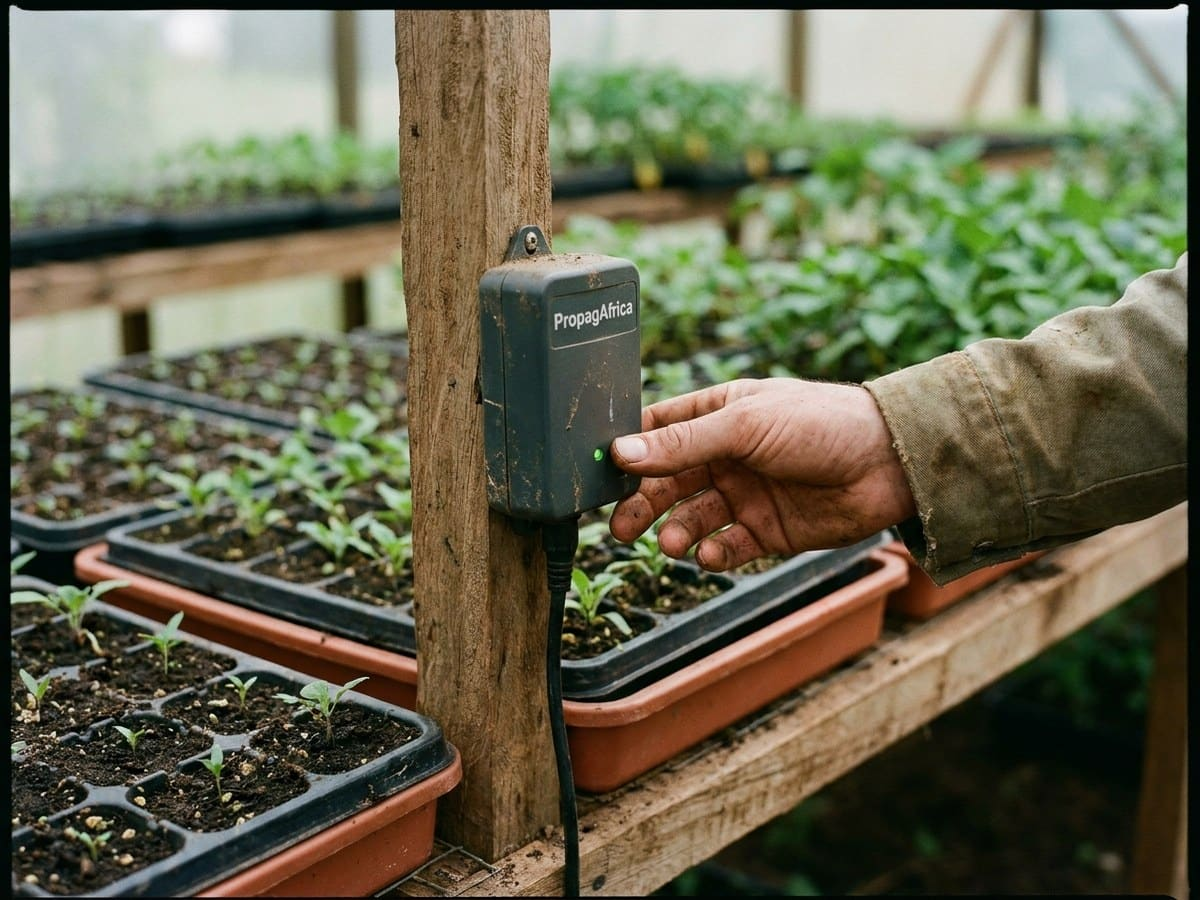
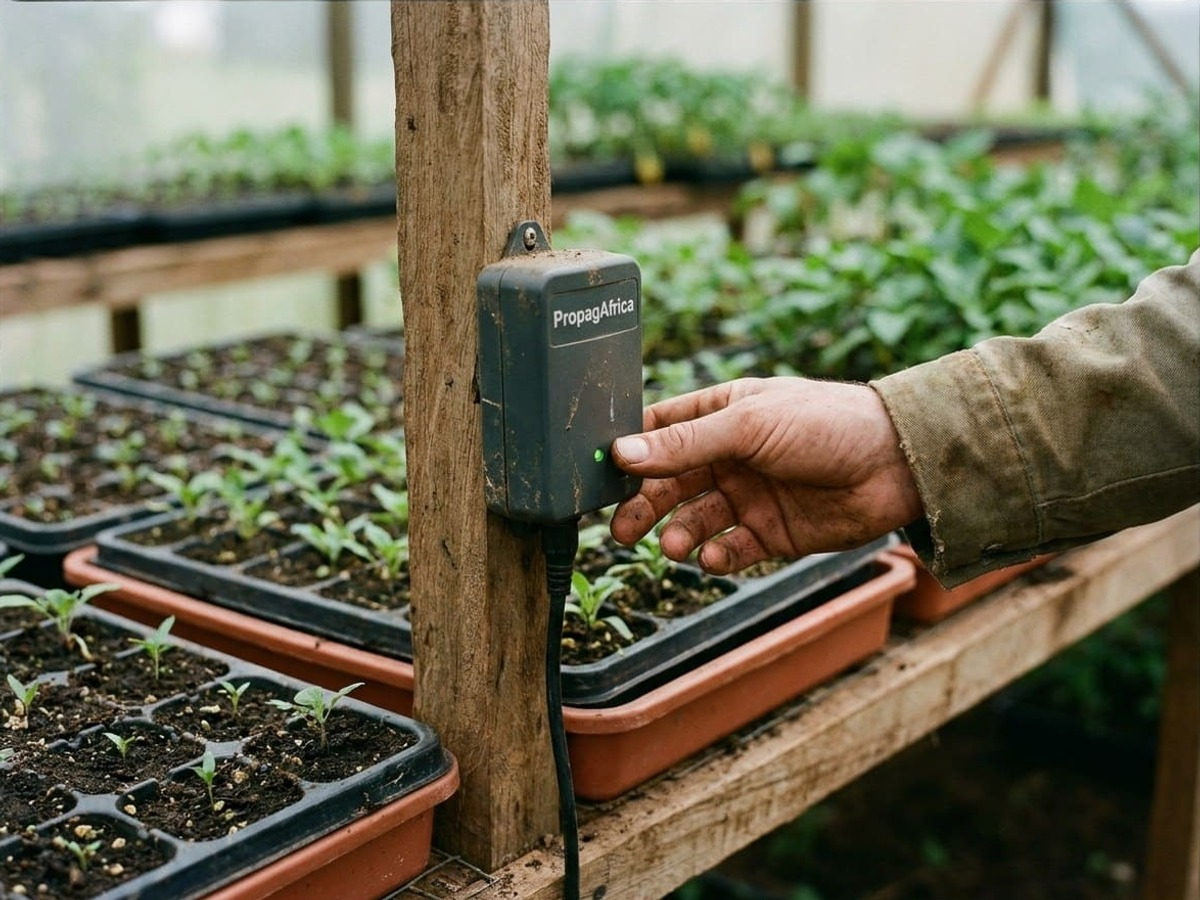
Compact hero height, crop process-04 vignette, centre tools card text
The hero's 16:9 aspect at full viewport width was near-100vh on a laptop
screen; it's now capped by viewport height (clamp 480-640px) so more of
the page shows on first paint. process-04.jpg had a ~10px black border
baked into the file, visible as bars on the journey card; cropped it out
with sharp and re-saved at the same path/dimensions. Tools hub card text
is now centred to match the button below it.

Claude-Session: https://claude.ai/code/session_01XaaRvDfhfuWYLksUVMKjCg

diff --git a/.factory/DECISIONS.md b/.factory/DECISIONS.md
@@ -26,107 +26,11 @@ archived in `.factory/history/2026-09-16-session9-homepage-iterations.md` — se
 of those entries describe an intermediate state superseded by a later entry below
 (the journey card width, the footer sitemap control) rather than the shipped one.
 
-## Mobile nav, hero copy and footer pass (2026-09-16)
-
-Header below 720px: a hamburger button + collapsible panel (vanilla script,
-no framework), wordmark centred via a 3-column `40px 1fr 40px` grid so the
-logo sits on the true centre rather than the space left of the toggle.
-
-Homepage hero sub-head is blueprint.md-locked copy — kept verbatim for
-desktop as `.hero-sub-full`; a `.hero-sub-short` condensed line (not a
-reword, a shorter reading of the same sentence) swaps in below 640px by
-CSS only, so the full copy still ships to every viewport.
-
-Below 640px, prose blocks across the homepage (section heads, outcome
-panels, filter pills, the monitoring spotlight, the services intro) are
-centred. Structural grids that would break if centred — the services
-index's numbered rows, the readings' two-column grid — were left alone.
-
-Footer: the sitemap column started as a `<details>` disclosure, then was
-replaced with a `<button aria-expanded>` + `display: none` list — Chromium
-excludes closed `<details>` content from Tab order regardless of a
-`display` override (43 of 49 keyboard-reachable elements, not 49 — the
-missing six were the sitemap links; `<details>` can't fix that, a
-genuinely hidden/shown list can). Baseline row
-(copyright / strapline / credit) stacks and centres below 640px instead of
-wrapping ragged.
-
-Branch note: `claude/epic-bell-w123i8` had been cut from a stale, pre-rebuild
-commit (`083281d`, the same one `claude/eloquent-euler-cc6v7j` — this repo's
-misconfigured GitHub default branch — still points at). All of the above was
-done after resetting it onto `origin/main` (tip `8a8217a`, includes the
-`claude/og-card` work), which is what the live site actually runs.
-
-## Positioning broadened to "Africa"; operational facts untouched (2026-09-16)
-
-Owner call: reframe market-facing copy (hero, About, Products/Field Notes
-hub subs, meta) from "Kenya and Ethiopia" to "across Africa" — but leave
-every operational fact as Kenya and Ethiopia (stock, Nairobi HQ/hub, the
-contact form's Country field, JSON-LD `areaServed`, facility captions).
-The homepage "Facilities in use" heading also stays Kenya/Ethiopia — every
-photo under it is captioned to one of those two, so broadening it would
-overclaim what the carousel shows.
-
-## "Stock held in Kenya and Ethiopia" read as a limit, not a hub (2026-09-16)
-
-Owner feedback on the above: pairing "growers across Africa" with "stock
-held in Kenya and Ethiopia" in the same sentence read as the two countries
-being the actual service boundary. Every instance (hero, About lede/facts/
-meta, Products sub/meta, Footer blurb, Contact panel, blueprint.md) is now
-"regional stock hubs in Kenya and Ethiopia" — same fact, phrased as hubs
-that supply the continent rather than a limit on it. The About lede and
-Footer blurb also gained "across Africa", which they'd been missing
-outright. The facilities heading is still deliberately untouched (see above
-— it's about physical locations, not service reach).
-
-Hero H1/sub-head read cramped (three lines for a two-line-worthy title,
-narrow sub) at desktop widths: `.hero-copy-inner`'s `min-width: 820px` cap
-went 640px → 760px, h1 `max-width` 20ch → 27ch, `.hero-sub` 52ch → 60ch.
-Mobile (`.hero-sub-short`) untouched. The journey loop's card
-(`JourneySteps.astro`) was `clamp(260px, 31vw, 560px)` — visibly larger
-than the product grid it sits above; now `clamp(220px, 25vw, 360px)`, which
-lands within a few px of a product card's own ~357px at content-max. The
-`sizes` attr on its `<picture>` was updated to match, so it doesn't fetch a
-wider image than it now displays.
-
-## Footer newsletter card stretched to match the brand column (2026-09-16)
-
-The action panel (Newsletter + Request a Quotation) is grid-aligned with
-`align-items: start`, so it only ever stood as tall as its own content —
-ending well short of the brand column's social icons. `.footer-actions` now
-`align-self: stretch`es at the 960px 3-column breakpoint, and
-`.action-panel` is a `height: 100%` flex column with the CTA half
-(`.action-bottom`) pinned by `margin-top: auto`, so any extra height opens
-as one gap there instead of stranding content or padding the card's foot.
-The card also gained `box-shadow: var(--shadow-soft)` — the one shared
-shadow token, not an ad-hoc value — so it reads as a raised object against
-the beige footer rather than a flat bordered box.
-
-## Font consistency audit; product cards compacted (2026-09-16)
-
-Owner call, checked against a reference file: the brand type is Inter
-throughout (this design direction's token comment already says so — "no
-serif anywhere" — so no second typeface was introduced). Two real gaps
-found and fixed rather than a cosmetic pass:
-
-- `functions/src/render.ts` (the no-JS form-submission fallback page — a
-  real destination, not a dead end) hard-coded
-  `-apple-system, system-ui, sans-serif` instead of the site's Inter, so a
-  visitor who lands there after a JS failure saw different type from every
-  other page. It now ships the same self-hosted `@font-face` at `/fonts/`.
-- `button, input, select, textarea` don't inherit the page font by default
-  (Chromium gives them their own UI font stack) — most already set
-  `font-family` themselves, but the admin sign-in form's input and button
-  didn't, and silently fell back to the OS font. Added a global reset in
-  `global.css` so any control that doesn't set its own family inherits Inter
-  by default, closing this off for good rather than patching one form.
-
-Separately: the /products/ hub's cards were the tallest thing on the page —
-`key-bullets` stacked one fact per line (up to four rows) under a
-`text-align: center` descriptor. It's now one wrapped mono spec line
-(`f.keyBullets.join(' · ')`) instead of a `<ul>`, and `.product-body`'s
-padding/margins were trimmed (space-3 → space-2 in three places), cutting
-card height by roughly a third with the same facts still visible.
+Session 9's mobile nav/footer pass, the "Africa" positioning copy changes and
+its "stock hubs" follow-up, the footer newsletter card stretch fix, and the
+font-consistency audit (self-hosted Inter on the no-JS fallback page, form
+controls inheriting it, /products/ card compaction) are archived in
+`.factory/history/2026-09-16-session9-tail.md` — those decisions still hold.
 
 ## Tools hub cards: no beige, solid CTA button (2026-09-16)
 
@@ -230,3 +134,34 @@ crossfade/scale entrance rather than replacing it. Hero only; the grid
 variant already has its own hover-zoom for the same "alive photograph"
 effect at thumbnail scale. Skipped entirely under
 `prefers-reduced-motion: reduce`, same as every other motion in this file.
+
+## Hero band height capped off the viewport, not the photo's aspect ratio (2026-09-17)
+
+The hero's `.media` was a flat `aspect-ratio: 16/9` at full viewport width —
+810px tall at a 1440px-wide laptop, near-100vh on a 13" MacBook (a forbidden
+pattern per CLAUDE.md invariants) and leaving nothing else on screen at first
+paint. From 641px up it's now `height: clamp(480px, 64vh, 640px)` with
+`aspect-ratio: auto`; `.frame img`'s existing `object-fit: cover` absorbs
+whatever crop results, so nothing else needed to change. Mobile
+(`max-width: 640px`, its own `min-height: 560px` for copy overflow room)
+untouched.
+
+## `process-04.jpg` had a ~10px black vignette baked into the file (2026-09-17)
+
+The homepage journey card's fourth photo showed black bars on both sides —
+not a CSS/object-fit issue (the other five process photos, and `.shot img`'s
+`object-fit: cover`, were already correct) but a ~10px black border baked
+into that one source JPEG on all four edges. `object-fit: cover` on a 4:3
+image in the loop's 3:2 card crops top/bottom to fill, which happened to
+clear the top/bottom border but left the left/right border visible. Fixed
+by cropping the border out with `sharp` (`extract` a 1174×880 region inset
+10–13px per side to preserve the 4:3 ratio, then `resize` back to the
+manifest's 1200×900) and overwriting the file in place — same path,
+filename and dimensions, no code change.
+
+## Tools hub card body text centred (2026-09-17)
+
+Owner call from a screenshot. `.tool-body` (heading, descriptor, CTA) was
+left-aligned text in a flex column; the CTA already read centred (full-width
+button). Added `align-items: center; text-align: center` to `.tool-body` so
+the heading and description centre to match.

diff --git a/.factory/history/2026-09-16-session9-tail.md b/.factory/history/2026-09-16-session9-tail.md
@@ -1,0 +1,106 @@
+# Session 9 tail — mobile nav, positioning copy, footer, font audit (archived 2026-09-16)
+
+Compacted out of `.factory/DECISIONS.md` to stay under its 250-line cap. These
+decisions still hold.
+
+## Mobile nav, hero copy and footer pass (2026-09-16)
+
+Header below 720px: a hamburger button + collapsible panel (vanilla script,
+no framework), wordmark centred via a 3-column `40px 1fr 40px` grid so the
+logo sits on the true centre rather than the space left of the toggle.
+
+Homepage hero sub-head is blueprint.md-locked copy — kept verbatim for
+desktop as `.hero-sub-full`; a `.hero-sub-short` condensed line (not a
+reword, a shorter reading of the same sentence) swaps in below 640px by
+CSS only, so the full copy still ships to every viewport.
+
+Below 640px, prose blocks across the homepage (section heads, outcome
+panels, filter pills, the monitoring spotlight, the services intro) are
+centred. Structural grids that would break if centred — the services
+index's numbered rows, the readings' two-column grid — were left alone.
+
+Footer: the sitemap column started as a `<details>` disclosure, then was
+replaced with a `<button aria-expanded>` + `display: none` list — Chromium
+excludes closed `<details>` content from Tab order regardless of a
+`display` override (43 of 49 keyboard-reachable elements, not 49 — the
+missing six were the sitemap links; `<details>` can't fix that, a
+genuinely hidden/shown list can). Baseline row
+(copyright / strapline / credit) stacks and centres below 640px instead of
+wrapping ragged.
+
+Branch note: `claude/epic-bell-w123i8` had been cut from a stale, pre-rebuild
+commit (`083281d`, the same one `claude/eloquent-euler-cc6v7j` — this repo's
+misconfigured GitHub default branch — still points at). All of the above was
+done after resetting it onto `origin/main` (tip `8a8217a`, includes the
+`claude/og-card` work), which is what the live site actually runs.
+
+## Positioning broadened to "Africa"; operational facts untouched (2026-09-16)
+
+Owner call: reframe market-facing copy (hero, About, Products/Field Notes
+hub subs, meta) from "Kenya and Ethiopia" to "across Africa" — but leave
+every operational fact as Kenya and Ethiopia (stock, Nairobi HQ/hub, the
+contact form's Country field, JSON-LD `areaServed`, facility captions).
+The homepage "Facilities in use" heading also stays Kenya/Ethiopia — every
+photo under it is captioned to one of those two, so broadening it would
+overclaim what the carousel shows.
+
+## "Stock held in Kenya and Ethiopia" read as a limit, not a hub (2026-09-16)
+
+Owner feedback on the above: pairing "growers across Africa" with "stock
+held in Kenya and Ethiopia" in the same sentence read as the two countries
+being the actual service boundary. Every instance (hero, About lede/facts/
+meta, Products sub/meta, Footer blurb, Contact panel, blueprint.md) is now
+"regional stock hubs in Kenya and Ethiopia" — same fact, phrased as hubs
+that supply the continent rather than a limit on it. The About lede and
+Footer blurb also gained "across Africa", which they'd been missing
+outright. The facilities heading is still deliberately untouched (see above
+— it's about physical locations, not service reach).
+
+Hero H1/sub-head read cramped (three lines for a two-line-worthy title,
+narrow sub) at desktop widths: `.hero-copy-inner`'s `min-width: 820px` cap
+went 640px → 760px, h1 `max-width` 20ch → 27ch, `.hero-sub` 52ch → 60ch.
+Mobile (`.hero-sub-short`) untouched. The journey loop's card
+(`JourneySteps.astro`) was `clamp(260px, 31vw, 560px)` — visibly larger
+than the product grid it sits above; now `clamp(220px, 25vw, 360px)`, which
+lands within a few px of a product card's own ~357px at content-max. The
+`sizes` attr on its `<picture>` was updated to match, so it doesn't fetch a
+wider image than it now displays.
+
+## Footer newsletter card stretched to match the brand column (2026-09-16)
+
+The action panel (Newsletter + Request a Quotation) is grid-aligned with
+`align-items: start`, so it only ever stood as tall as its own content —
+ending well short of the brand column's social icons. `.footer-actions` now
+`align-self: stretch`es at the 960px 3-column breakpoint, and
+`.action-panel` is a `height: 100%` flex column with the CTA half
+(`.action-bottom`) pinned by `margin-top: auto`, so any extra height opens
+as one gap there instead of stranding content or padding the card's foot.
+The card also gained `box-shadow: var(--shadow-soft)` — the one shared
+shadow token, not an ad-hoc value — so it reads as a raised object against
+the beige footer rather than a flat bordered box.
+
+## Font consistency audit; product cards compacted (2026-09-16)
+
+Owner call, checked against a reference file: the brand type is Inter
+throughout (this design direction's token comment already says so — "no
+serif anywhere" — so no second typeface was introduced). Two real gaps
+found and fixed rather than a cosmetic pass:
+
+- `functions/src/render.ts` (the no-JS form-submission fallback page — a
+  real destination, not a dead end) hard-coded
+  `-apple-system, system-ui, sans-serif` instead of the site's Inter, so a
+  visitor who lands there after a JS failure saw different type from every
+  other page. It now ships the same self-hosted `@font-face` at `/fonts/`.
+- `button, input, select, textarea` don't inherit the page font by default
+  (Chromium gives them their own UI font stack) — most already set
+  `font-family` themselves, but the admin sign-in form's input and button
+  didn't, and silently fell back to the OS font. Added a global reset in
+  `global.css` so any control that doesn't set its own family inherits Inter
+  by default, closing this off for good rather than patching one form.
+
+Separately: the /products/ hub's cards were the tallest thing on the page —
+`key-bullets` stacked one fact per line (up to four rows) under a
+`text-align: center` descriptor. It's now one wrapped mono spec line
+(`f.keyBullets.join(' · ')`) instead of a `<ul>`, and `.product-body`'s
+padding/margins were trimmed (space-3 → space-2 in three places), cutting
+card height by roughly a third with the same facts still visible.
